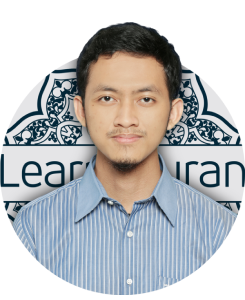
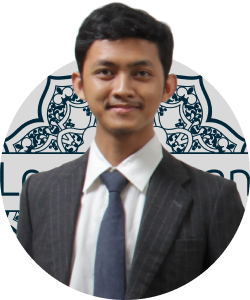
Revision
seperating section for references

add photos for team

diff --git a/template2.html b/template2.html
@@ -44,15 +44,6 @@
                                 Since
                                 2018,
                                 Learn Quran has been registered as a non-profit organization in Indonesia.
-                                Learn Quran has a valid references, there are :
-                                Tafsir Ibn Kathir whose literature has been proofread & improved by Learn Quran
-                                Foundation team,
-                                Tafsir Jalalayn from <a class="text-deep-blue"
-                                    href="https://tanzil.net/">tanzil.net</a>,
-                                Quran Translation by Yusuf Ali from <a class="text-deep-blue"
-                                    href="https://tanzil.net/">tanzil.net</a>, and
-                                Quran Translation word by word from <a class="text-deep-blue"
-                                    href="https://quranwbw.com/">quranwbw.com</a>
                             </p>
                             <a class="btn btn-primary"
                                 href="https://ahu.go.id/sabh/yayasan/qrcode/?kode=NTAxODAxMTEzMjEwMDI4N18xXzE2IEphbnVhcmkgMjAxOF8xNiBKYW51YXJpIDIwMTg="
@@ -164,6 +155,23 @@
                 <div class="span4">
                     <img class="" src="assets/img/support/YBM-PLN.png" width="200">
                 </div><!-- /.span4 -->
+            </div><!-- /.row -->
+        </div>
+
+        <div class="container-narrow section">
+            <div class="row-fluid text-center head-section" style="padding-top: 5pt; padding-bottom: 5pt;">
+                <div class="span12">
+                    <hr class="top-header">
+                    <h3 class="about">References</h3>
+                </div>
+            </div>
+            <div class="row-fluid  desc-section">
+                <ol>
+                    <li>Tafsir Ibn Kathir whose literature has been proofread & improved by Learn Quran Foundation team</li>
+                    <li>Tafsir Jalalayn from <a class="text-deep-blue" href="https://tanzil.net/">tanzil.net</a></li>
+                    <li>Quran Translation by Yusuf Ali from <a class="text-deep-blue" href="https://tanzil.net/">tanzil.net</a></li>
+                    <li>Quran Translation word by word from <a class="text-deep-blue" href="https://quranwbw.com/">quranwbw.com</a></li>
+                </ol>
             </div><!-- /.row -->
         </div>
     </div> <!-- /container -->
@@ -325,6 +333,8 @@
             { name: 'Afkar', title: 'Software Engineer', username: 'muhammad-afkar-26b450150' },
             { name: 'Arief', title: 'Quality Assurance', username: 'azarief7' },
             { name: 'Mila', title: 'Quality Assurance', username: 'milashania' },
+            { name: 'Hijrah', title: 'Backend Developer', username: 'milashania' },
+            { name: 'Maryam', title: 'Frontend Developer', username: 'milashania' },
         ]
 
         let text = '';

diff --git a/template3.html b/template3.html
@@ -44,15 +44,6 @@
                                 Since
                                 2018,
                                 Learn Quran has been registered as a non-profit organization in Indonesia.
-                                Learn Quran has a valid references, there are :
-                                Tafsir Ibn Kathir whose literature has been proofread & improved by Learn Quran
-                                Foundation team,
-                                Tafsir Jalalayn from <a class="text-deep-blue"
-                                    href="https://tanzil.net/">tanzil.net</a>,
-                                Quran Translation by Yusuf Ali from <a class="text-deep-blue"
-                                    href="https://tanzil.net/">tanzil.net</a>, and
-                                Quran Translation word by word from <a class="text-deep-blue"
-                                    href="https://quranwbw.com/">quranwbw.com</a>
                             </p>
                             <a class="btn btn-primary"
                                 href="https://ahu.go.id/sabh/yayasan/qrcode/?kode=NTAxODAxMTEzMjEwMDI4N18xXzE2IEphbnVhcmkgMjAxOF8xNiBKYW51YXJpIDIwMTg="
@@ -181,6 +172,23 @@
                 <div class="span4">
                     <img class="" src="assets/img/support/YBM-PLN.png" width="200">
                 </div><!-- /.span4 -->
+            </div><!-- /.row -->
+        </div>
+
+        <div class="container-narrow section">
+            <div class="row-fluid text-center head-section" style="padding-top: 5pt; padding-bottom: 5pt;">
+                <div class="span12">
+                    <hr class="top-header">
+                    <h3 class="about">References</h3>
+                </div>
+            </div>
+            <div class="row-fluid  desc-section">
+                <ol>
+                    <li>Tafsir Ibn Kathir whose literature has been proofread & improved by Learn Quran Foundation team</li>
+                    <li>Tafsir Jalalayn from <a class="text-deep-blue" href="https://tanzil.net/">tanzil.net</a></li>
+                    <li>Quran Translation by Yusuf Ali from <a class="text-deep-blue" href="https://tanzil.net/">tanzil.net</a></li>
+                    <li>Quran Translation word by word from <a class="text-deep-blue" href="https://quranwbw.com/">quranwbw.com</a></li>
+                </ol>
             </div><!-- /.row -->
         </div>
     </div> <!-- /container -->
@@ -342,6 +350,8 @@
             { name: 'Afkar', title: 'Software Engineer', username: 'muhammad-afkar-26b450150' },
             { name: 'Arief', title: 'Quality Assurance', username: 'azarief7' },
             { name: 'Mila', title: 'Quality Assurance', username: 'milashania' },
+            { name: 'Hijrah', title: 'Backend Developer', username: 'milashania' },
+            { name: 'Maryam', title: 'Frontend Developer', username: 'milashania' },
         ]
 
         let text = '';

diff --git a/carousel.html b/carousel.html
@@ -1,0 +1,23 @@
+        const team = [
+            { name: 'Sani', title: 'Founder & Advisor', username: 'mohamadsani' },
+            { name: 'Denny', title: 'Chairman',},
+            { name: 'Mila', title: 'Quality Assurance', username: 'milashania' },
+        ]
+
+        let text = '';
+        for (let i = 0; i < team.length; i++) {
+            text += `<div class="item ` + ((i == 0) ? 'active' : '') + `">
+                            <div class="row-fluid team-link">
+                                <div class="span12">
+                                    <a href="`+ (!team[i].username ? '#' : 'https://www.linkedin.com/in/' + team[i].username) + `" class="team-section about" target="_blank">
+                                        <img class="img-circle" src="assets/img/team/`+ (!team[i].pict ? team[i].name : team[i].pict) + `-new.png"
+                                            style="height: 150px;">
+                                        <h3 class="about" style="margin-bottom: 2pt;">${team[i].name}</h3>
+                                    </a>
+                                    <p>${team[i].title}</p>
+                                </div>
+                            </div>
+                        </div>`;
+        }
+
+        document.getElementById('carouselTeam').innerHTML = text;

diff --git a/template.html b/template.html
@@ -314,6 +314,8 @@
             { name: 'Afkar', title: 'Software Engineer', username: 'muhammad-afkar-26b450150' },
             { name: 'Arief', title: 'Quality Assurance', username: 'azarief7' },
             { name: 'Mila', title: 'Quality Assurance', username: 'milashania' },
+            { name: 'Hijrah', title: 'Backend Developer', username: 'milashania' },
+            { name: 'Maryam', title: 'Frontend Developer', username: 'milashania' },
         ]
 
         let text = '';
